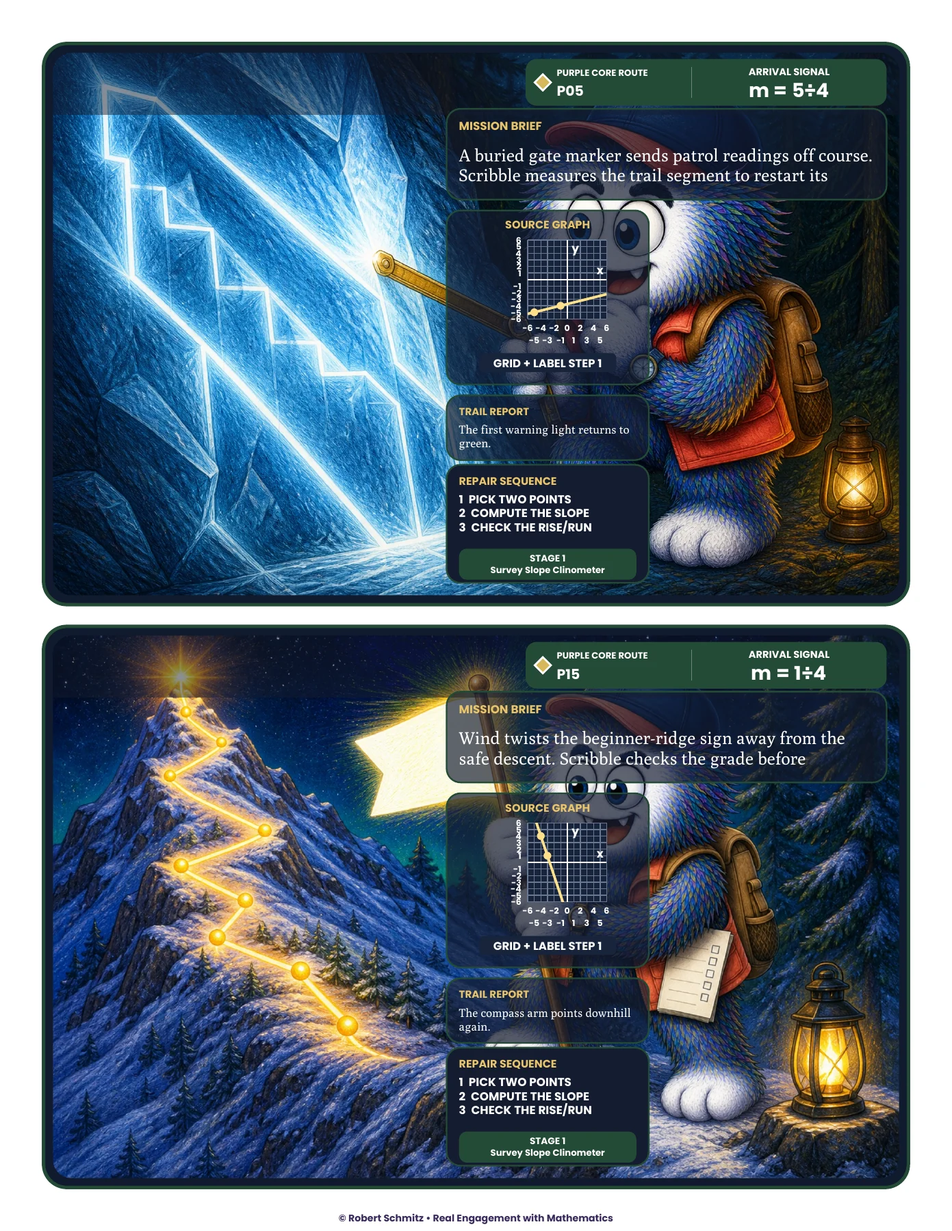
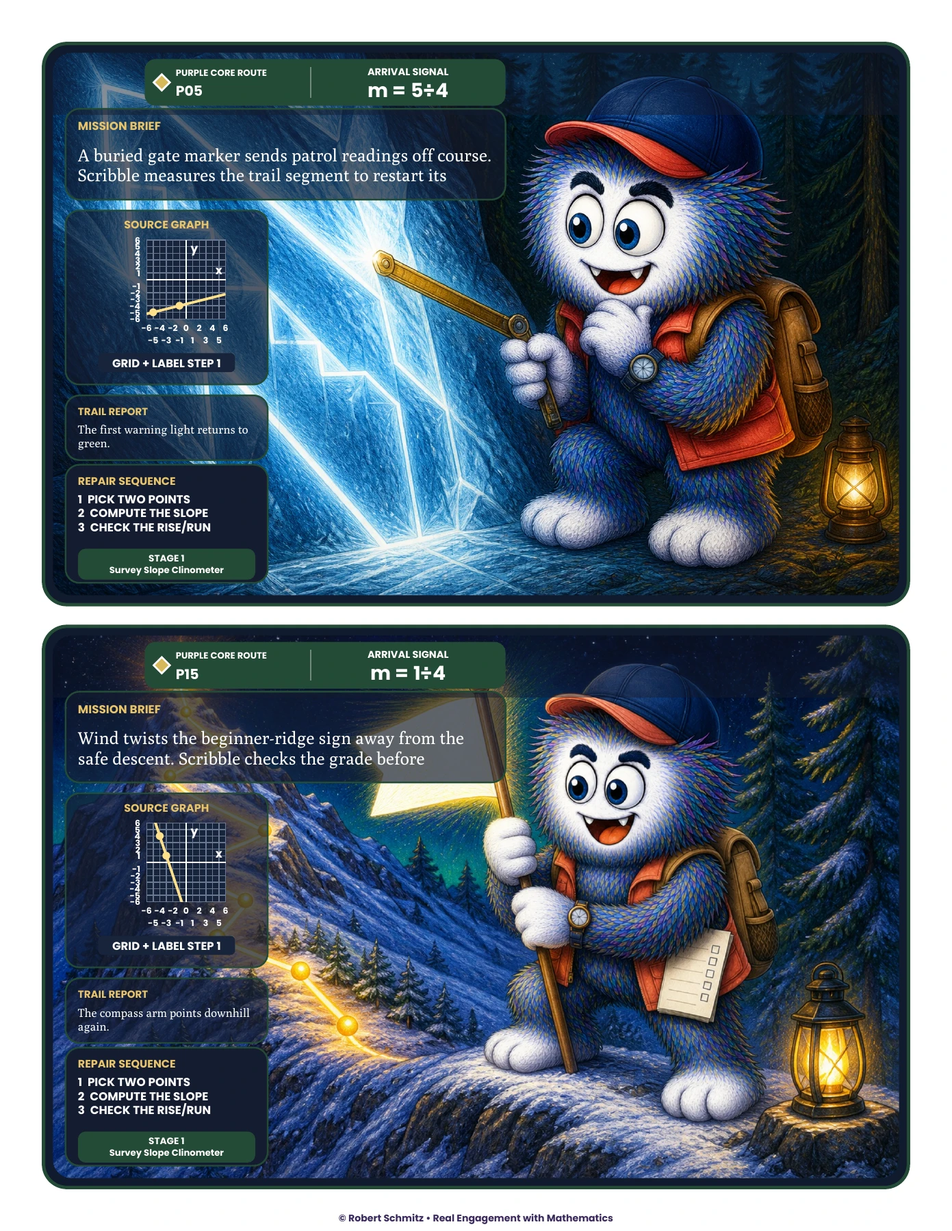
Move Slope Patrol station panels clear of Scribble

diff --git a/projects/slope-patrol.html b/projects/slope-patrol.html
@@ -59,7 +59,7 @@
 </div>
 </div></header>
 <section class="resource-section"><div class="container"><div class="resource-section-head"><p class="eyebrow">The learner experience</p><h2>What happens on the page?</h2><p>A ski-course mystery turns slope practice into a route through illustrated stations. Learners identify points, calculate slope, and follow a matching signal. Purple Core and Teal Extension routes give the activity two distinct paths.</p></div><ol class="resource-steps"><li><span class="step-number">01</span><h3>Read the station</h3><p>Choose the points and inspect the graph representation.</p></li><li><span class="step-number">02</span><h3>Calculate and check</h3><p>Show the slope calculation and check its sign or special case.</p></li><li><span class="step-number">03</span><h3>Follow the signal</h3><p>Record the answer and move to the station with the matching arrival signal.</p></li></ol></div></section>
-<section class="resource-section resource-materials" id="materials"><div class="container"><div class="resource-section-head"><p class="eyebrow">Inside the resource</p><h2>The work, up close.</h2><p>Selected pages from the actual resource files. Open any page to inspect the details.</p></div><div class="resource-artifacts count-3"><figure class="resource-artifact"><a class="artifact-zoom" href="../assets/images/resources/slope-patrol-7.webp" aria-label="Enlarge: Step onto the trail"><img class="" src="../assets/images/resources/slope-patrol-7.webp" width="1391" height="1800" alt="Full-color student resource, page 7. Illustrated stations pair graph tasks with answer-dependent navigation." loading="lazy"><span class="enlarge-cue" aria-hidden="true">Open full page ↗</span></a><figcaption><h3>Step onto the trail</h3><p>Full-color student resource, page 7. Illustrated stations pair graph tasks with answer-dependent navigation.</p></figcaption></figure><figure class="resource-artifact"><a class="artifact-zoom" href="../assets/images/resources/slope-patrol-3.webp" aria-label="Enlarge: Learn how the route works"><img class="" src="../assets/images/resources/slope-patrol-3.webp" width="1391" height="1800" alt="Student resource, page 3. A worked route example introduces Pick, Compute, Check, Navigate." loading="lazy"><span class="enlarge-cue" aria-hidden="true">Open full page ↗</span></a><figcaption><h3>Learn how the route works</h3><p>Student resource, page 3. A worked route example introduces Pick, Compute, Check, Navigate.</p></figcaption></figure><figure class="resource-artifact"><a class="artifact-zoom" href="../assets/images/resources/slope-patrol-6.webp" aria-label="Enlarge: Check understanding independently"><img class="" src="../assets/images/resources/slope-patrol-6.webp" width="1391" height="1800" alt="Student resource, page 6. A field guide and exit ticket keep support and independent evidence in view." loading="lazy"><span class="enlarge-cue" aria-hidden="true">Open full page ↗</span></a><figcaption><h3>Check understanding independently</h3><p>Student resource, page 6. A field guide and exit ticket keep support and independent evidence in view.</p></figcaption></figure></div></div></section>
+<section class="resource-section resource-materials" id="materials"><div class="container"><div class="resource-section-head"><p class="eyebrow">Inside the resource</p><h2>The work, up close.</h2><p>Selected pages from the actual resource files. Open any page to inspect the details.</p></div><div class="resource-artifacts count-3"><figure class="resource-artifact"><a class="artifact-zoom" href="../assets/images/resources/slope-patrol-7.webp" aria-label="Enlarge: Step onto the trail"><img class="" src="../assets/images/resources/slope-patrol-7.webp" width="1391" height="1800" alt="Full-color student resource, page 7, with revised panel placement. Illustrated stations pair graph tasks with answer-dependent navigation." loading="lazy"><span class="enlarge-cue" aria-hidden="true">Open full page ↗</span></a><figcaption><h3>Step onto the trail</h3><p>Full-color student resource, page 7, with revised panel placement. Illustrated stations pair graph tasks with answer-dependent navigation.</p></figcaption></figure><figure class="resource-artifact"><a class="artifact-zoom" href="../assets/images/resources/slope-patrol-3.webp" aria-label="Enlarge: Learn how the route works"><img class="" src="../assets/images/resources/slope-patrol-3.webp" width="1391" height="1800" alt="Student resource, page 3. A worked route example introduces Pick, Compute, Check, Navigate." loading="lazy"><span class="enlarge-cue" aria-hidden="true">Open full page ↗</span></a><figcaption><h3>Learn how the route works</h3><p>Student resource, page 3. A worked route example introduces Pick, Compute, Check, Navigate.</p></figcaption></figure><figure class="resource-artifact"><a class="artifact-zoom" href="../assets/images/resources/slope-patrol-6.webp" aria-label="Enlarge: Check understanding independently"><img class="" src="../assets/images/resources/slope-patrol-6.webp" width="1391" height="1800" alt="Student resource, page 6. A field guide and exit ticket keep support and independent evidence in view." loading="lazy"><span class="enlarge-cue" aria-hidden="true">Open full page ↗</span></a><figcaption><h3>Check understanding independently</h3><p>Student resource, page 6. A field guide and exit ticket keep support and independent evidence in view.</p></figcaption></figure></div></div></section>
 <section class="resource-section"><div class="container resource-design"><div><p class="eyebrow">Why I designed it this way</p><h2>Character gets attention.<br>The task does the teaching.</h2></div><div class="resource-decisions"><article><h3>Make navigation depend on the mathematics</h3><p>The answer provides the next-station cue. A recording sheet preserves the calculation and route choice so a learner or teacher can retrace a wrong turn.</p></article><article><h3>Pair movement with an independent check</h3><p>A compact field guide supports the routine. The exit ticket asks for reasoning separately, because completing a route alone does not establish individual mastery.</p></article></div></div></section>
 <aside class="resource-transfer"><div class="container"><span class="eyebrow">Beyond this lesson</span><p>Answer-dependent routing is a way to structure a sequence of decisions. Visible records make the route inspectable when someone needs to diagnose a mistake.</p></div></aside>
 <section class="resource-section"><div class="container resource-evidence"><div><p class="eyebrow">Evidence &amp; next evaluation</p><h2>From a designed task to demonstrated learning.</h2><p>These authored materials show the activity structure and design decisions. Learner outcomes have not yet been measured for this case study.</p></div><div><h3>What I would check next</h3><p>Watch where learners misroute, inspect their recorded calculations, and compare route performance with the independent exit ticket.</p></div></div></section>
